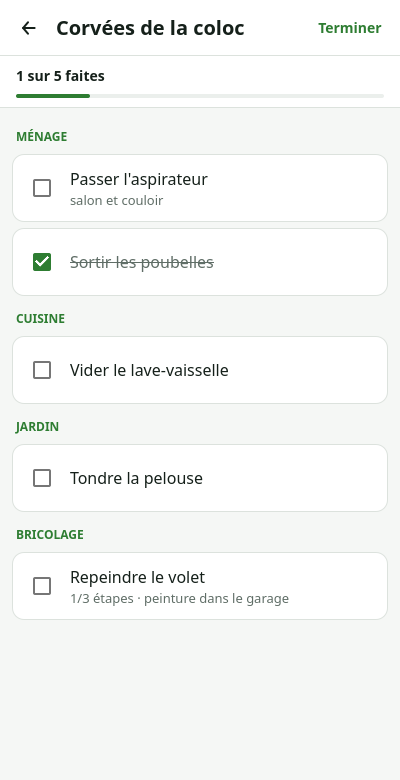
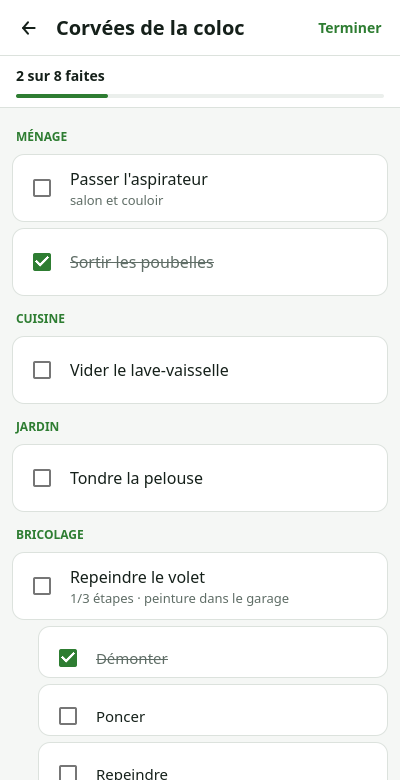
Mode « Au boulot ! » : nouveau nom, et les étapes se déplient
- Le bouton « Chantier » devient « Au boulot ! ».
- En mode Au boulot, chaque tâche déplie ses étapes juste en dessous,
  indentées, dans la section de leur tâche, cochables en place — la
  progression du bandeau les compte aussi. Repli automatique en
  quittant le mode ou la page. Purement local (rien de synchronisé de
  plus) : un rôle isStep et un interrupteur showSteps sur le modèle.

Tests : dépliage/repli, ordre tâche→étapes, section héritée, cochage
en place. 14/14 vertes.

diff --git a/src/qml/ListPage.qml b/src/qml/ListPage.qml
@@ -30,12 +30,19 @@ Item {
         ? selectedIds.length + (selectedIds.length > 1 ? " sélectionnés" : " sélectionné")
         : listTitle
 
-    // En plein chantier, on pose le téléphone sans le toucher pendant des minutes :
-    // l'écran ne doit pas s'éteindre au milieu de la liste.
-    onShoppingModeChanged: AppController.setKeepScreenOn(shoppingMode)
-    // Quitter la page en mode Chantier laisserait le drapeau posé, et l'écran allumé
-    // pour toujours.
-    Component.onDestruction: AppController.setKeepScreenOn(false)
+    // En plein boulot, on pose le téléphone sans le toucher pendant des minutes :
+    // l'écran ne doit pas s'éteindre au milieu de la liste. Et les étapes se
+    // déplient sous leurs tâches, cochables en place — c'est là qu'on en a besoin.
+    onShoppingModeChanged: {
+        AppController.setKeepScreenOn(shoppingMode)
+        AppController.items.showSteps = shoppingMode
+    }
+    // Quitter la page en mode Au boulot laisserait le drapeau posé, l'écran allumé
+    // pour toujours et les étapes dépliées au prochain écran.
+    Component.onDestruction: {
+        AppController.setKeepScreenOn(false)
+        AppController.items.showSteps = false
+    }
 
     function closeSearch() {
         searchOpen = false
@@ -122,11 +129,11 @@ Item {
         // Le mode des mains occupées est celui qu'on ouvre le plus souvent : il
         // mérite un bouton, pas une ligne de menu.
         ToolButton {
-            width: 90
+            width: 110
             height: Theme.touchTarget
             visible: !root.selectionMode && !root.shoppingMode
             contentItem: Label {
-                text: "Chantier"
+                text: "Au boulot !"
                 color: Theme.accent
                 font.pixelSize: 14
                 font.weight: Font.DemiBold
@@ -371,7 +378,9 @@ Item {
             delegate: Item {
                 id: wrapper
                 width: items.width
-                height: root.shoppingMode ? 68 : 60
+                // Les étapes dépliées (mode Au boulot) sont plus basses et en retrait :
+                // on lit d'un coup d'œil à quelle tâche elles appartiennent.
+                height: root.shoppingMode ? (model.isStep ? 52 : 68) : 60
 
                 // Pas de `required property int index` (couperait le contexte du modèle).
                 property int rowIndex: index
@@ -395,8 +404,9 @@ Item {
 
                 SwipeDelegate {
                     id: row
-                    width: wrapper.width - 2 * Theme.gap
-                    x: Theme.gap
+                    readonly property int stepIndent: model.isStep ? 26 : 0
+                    width: wrapper.width - 2 * Theme.gap - stepIndent
+                    x: Theme.gap + stepIndent
                     height: wrapper.height
                     padding: 0
 
@@ -458,7 +468,7 @@ Item {
                                 Layout.fillWidth: true
                                 text: model.name
                                 color: model.done ? Theme.textDim : Theme.text
-                                font.pixelSize: 16
+                                font.pixelSize: model.isStep ? 15 : 16
                                 font.strikeout: model.done
                                 elide: Text.ElideRight
                             }

diff --git a/src/app/itemmodel.cpp b/src/app/itemmodel.cpp
@@ -200,16 +200,45 @@ void ItemModel::rebuildStepCounts() {
 void ItemModel::rebuildRows() {
     beginResetModel();
     m_rows.clear();
+
+    std::vector<Row> tasks;
     for (const auto &item : m_items) {
         // La vue ne montre qu'un niveau : les tâches (parent vide), ou les étapes de
         // la tâche ouverte. m_items garde tout, y compris pour la progression.
         if (!item.del && item.parentId == m_parentId && matchesFilter(item)) {
-            m_rows.push_back(Row{ item });
+            tasks.push_back(Row{ item });
         }
     }
     const bool manual = m_manualSort, steps = stepsMode();
-    std::stable_sort(m_rows.begin(), m_rows.end(),
+    std::stable_sort(tasks.begin(), tasks.end(),
                      [=](const Row &a, const Row &b){ return rowLessThan(a, b, manual, steps); });
+
+    if (m_showSteps && !stepsMode()) {
+        // Mode « Au boulot » : chaque tâche est suivie de ses étapes, dans leur
+        // ordre manuel, cochables en place. Une étape porte le rayon de section de
+        // sa tâche pour rester dans la même section à l'écran.
+        for (auto &t : tasks) {
+            t.sectionAisle = t.item.aisle;
+            const std::string taskId = t.item.itemId;
+            const std::string aisle  = t.item.aisle;
+            m_rows.push_back(std::move(t));
+
+            std::vector<Row> kids;
+            for (const auto &item : m_items) {
+                if (!item.del && item.parentId == taskId)
+                    kids.push_back(Row{ item, true, aisle });
+            }
+            std::stable_sort(kids.begin(), kids.end(), [](const Row &a, const Row &b) {
+                if (a.item.order != b.item.order) return a.item.order < b.item.order;
+                return a.item.itemId < b.item.itemId;
+            });
+            for (auto &k : kids)
+                m_rows.push_back(std::move(k));
+        }
+    } else {
+        m_rows = std::move(tasks);
+    }
+
     rebuildStepCounts();
     endResetModel();
     emit countChanged();
@@ -217,6 +246,14 @@ void ItemModel::rebuildRows() {
     // Un merge distant peut apporter une catégorie qu'on ne connaissait pas.
     emit aisleNamesChanged();
     emit refreshed();
+}
+
+void ItemModel::setShowSteps(bool show) {
+    if (m_showSteps == show)
+        return;
+    m_showSteps = show;
+    emit showStepsChanged();
+    rebuildRows();
 }
 
 int ItemModel::rowCount(const QModelIndex &parent) const {
@@ -236,9 +273,13 @@ QVariant ItemModel::data(const QModelIndex &index, int role) const {
     case DoneRole:    return row.item.done;
     case DoneAtRole:  return static_cast<qlonglong>(row.item.doneAt);
     case CreatedRole: return static_cast<qlonglong>(row.item.created);
-    case AisleRole:   return QString::fromStdString(row.item.aisle);
+    // Une étape dépliée s'affiche dans la section de sa tâche, pas dans « Sans
+    // catégorie » (elle n'a pas de catégorie propre).
+    case AisleRole:   return QString::fromStdString(row.isStep ? row.sectionAisle
+                                                               : row.item.aisle);
     case ImageRole:   return QString::fromStdString(row.item.image);
     case DueRole:     return static_cast<qlonglong>(row.item.due);
+    case IsStepRole:  return row.isStep;
     case StepsTotalRole: {
         const auto it = m_stepCounts.find(row.item.itemId);
         return it != m_stepCounts.end() ? it->second.first : 0;
@@ -276,6 +317,7 @@ QHash<int, QByteArray> ItemModel::roleNames() const {
         { StepsTotalRole, "stepsTotal" },
         { StepsDoneRole,  "stepsDone"  },
         { DueRole,     "due"     },
+        { IsStepRole,  "isStep"  },
     };
 }
 
@@ -464,6 +506,13 @@ void ItemModel::toggleDone(const QString &itemId) {
 
     emit localChanged(m_listId);
     emit aisleNamesChanged();
+
+    // Étapes dépliées : l'ordre des lignes dépend des tâches ET de leurs étapes,
+    // le déplacement incrémental ne sait pas le rejouer — on reconstruit.
+    if (m_showSteps) {
+        rebuildRows();
+        return;
+    }
 
     // Find current position in visible rows.
     const int oldPos = findRow(itemId);

diff --git a/tests/tst_itemmodel.cpp b/tests/tst_itemmodel.cpp
@@ -1144,6 +1144,58 @@ private slots:
         QCOMPARE(model.data(model.index(0), ItemModel::ImageRole).toString(), QString());
     }
 
+    // Mode « Au boulot » : les étapes se déplient sous leurs tâches, dans la section
+    // de leur tâche, cochables en place — et se replient en quittant le mode.
+    void test_showSteps_expandsUnderTasks() {
+        QTemporaryDir dir;
+        QVERIFY(dir.isValid());
+        Database db;
+        QVERIFY(openDb(db, dir));
+        const auto listId = makeList(db);
+
+        ItemModel model;
+        model.load(db, listId, "dev-A");
+        model.addItem("Repeindre le volet", "", "", "Ménage");
+        model.addItem("Tondre", "", "", "");
+        const QString taskId = model.data(model.index(0), ItemModel::ItemIdRole).toString();
+
+        ItemModel steps;
+        steps.load(db, listId, "dev-A", taskId.toStdString());
+        steps.addItem("Poncer", "");
+        steps.addItem("Repeindre", "");
+
+        model.load(db, listId, "dev-A");   // recharger : les étapes sont en base
+        QCOMPARE(model.count(), 2);        // repliées par défaut
+
+        model.setShowSteps(true);
+        QCOMPARE(model.count(), 4);
+
+        // La tâche d'abord, puis SES étapes dans leur ordre, puis la tâche suivante.
+        QCOMPARE(model.data(model.index(0), ItemModel::NameRole).toString(),
+                 QStringLiteral("Repeindre le volet"));
+        QCOMPARE(model.data(model.index(1), ItemModel::NameRole).toString(),
+                 QStringLiteral("Poncer"));
+        QVERIFY(model.data(model.index(1), ItemModel::IsStepRole).toBool());
+        // L'étape s'affiche dans la section de sa tâche.
+        QCOMPARE(model.data(model.index(1), ItemModel::AisleRole).toString(),
+                 QStringLiteral("Ménage"));
+        QCOMPARE(model.data(model.index(2), ItemModel::NameRole).toString(),
+                 QStringLiteral("Repeindre"));
+        QCOMPARE(model.data(model.index(3), ItemModel::NameRole).toString(),
+                 QStringLiteral("Tondre"));
+        QVERIFY(!model.data(model.index(3), ItemModel::IsStepRole).toBool());
+
+        // Cocher une étape en place : la progression du mode la compte.
+        const QString poncer = model.data(model.index(1), ItemModel::ItemIdRole).toString();
+        model.toggleDone(poncer);
+        QCOMPARE(model.doneCount(), 1);
+        QCOMPARE(model.data(model.index(1), ItemModel::NameRole).toString(),
+                 QStringLiteral("Poncer"));   // garde sa place sous sa tâche
+
+        model.setShowSteps(false);
+        QCOMPARE(model.count(), 2);
+    }
+
     // L'échéance est facultative : posée, changée, retirée — champ LWW versionné,
     // valable pour une tâche comme pour une étape.
     void test_setDue() {

diff --git a/src/app/itemmodel.h b/src/app/itemmodel.h
@@ -33,6 +33,9 @@ class ItemModel : public QAbstractListModel {
     // ont inventés dans cette liste. NOTIFY et pas CONSTANT : un rayon créé doit
     // apparaître aussitôt dans le choix, ici comme chez les autres.
     Q_PROPERTY(QStringList aisleNames READ aisleNames NOTIFY aisleNamesChanged)
+    // Mode « Au boulot » : déplier les étapes sous leurs tâches, cochables en place.
+    // Purement local et d'affichage — rien n'est synchronisé.
+    Q_PROPERTY(bool showSteps READ showSteps WRITE setShowSteps NOTIFY showStepsChanged)
 
 public:
     enum Roles {
@@ -54,6 +57,8 @@ public:
         StepsDoneRole,
         // Échéance (ms epoch, 0 = pas d'échéance). Facultative, étapes comprises.
         DueRole,
+        // Cette ligne est une étape dépliée sous sa tâche (mode « Au boulot »).
+        IsStepRole,
     };
 
     // Rayons d'origine, dans l'ordre où on traverse un magasin. C'est cet ordre qui trie
@@ -96,6 +101,9 @@ public:
     // Choisir le mode : écrit le champ répliqué (LWW), retrie, et publie aux autres.
     // Un merge distant, lui, arrive par un rechargement complet du modèle (load).
     void setManualSort(bool manual);
+
+    bool showSteps() const { return m_showSteps; }
+    void setShowSteps(bool show);
 
     // Nom d'un article déjà présent (comparaison insensible à la casse et aux
     // espaces), ou chaîne vide. Sert à prévenir avant d'ajouter un doublon.
@@ -144,6 +152,7 @@ signals:
     void filterChanged();
     void aisleNamesChanged();
     void manualSortChanged();
+    void showStepsChanged();
     // Un article a été ajouté par l'utilisateur (pas un merge ni un import) : les
     // favoris fréquents ont changé.
     void itemAdded();
@@ -156,6 +165,10 @@ private:
     // Sorted visible rows (del=false only, sorted as §7).
     struct Row {
         core::Item item;
+        // Étape dépliée sous sa tâche (mode « Au boulot »). Son rayon de section est
+        // celui de sa tâche : une étape n'a pas de catégorie propre à l'écran.
+        bool        isStep = false;
+        std::string sectionAisle;
     };
 
     // Find visible row index by itemId (-1 if not found).
@@ -201,6 +214,7 @@ private:
     std::string      m_parentId;
     QString          m_filter;
     bool             m_manualSort = false;  // mode de classement de la liste chargée
+    bool             m_showSteps  = false;  // étapes dépliées (mode « Au boulot »)
 
     // Progression des étapes par tâche (mode liste) : itemId → {total, faites}.
     std::map<std::string, std::pair<int, int>> m_stepCounts;
